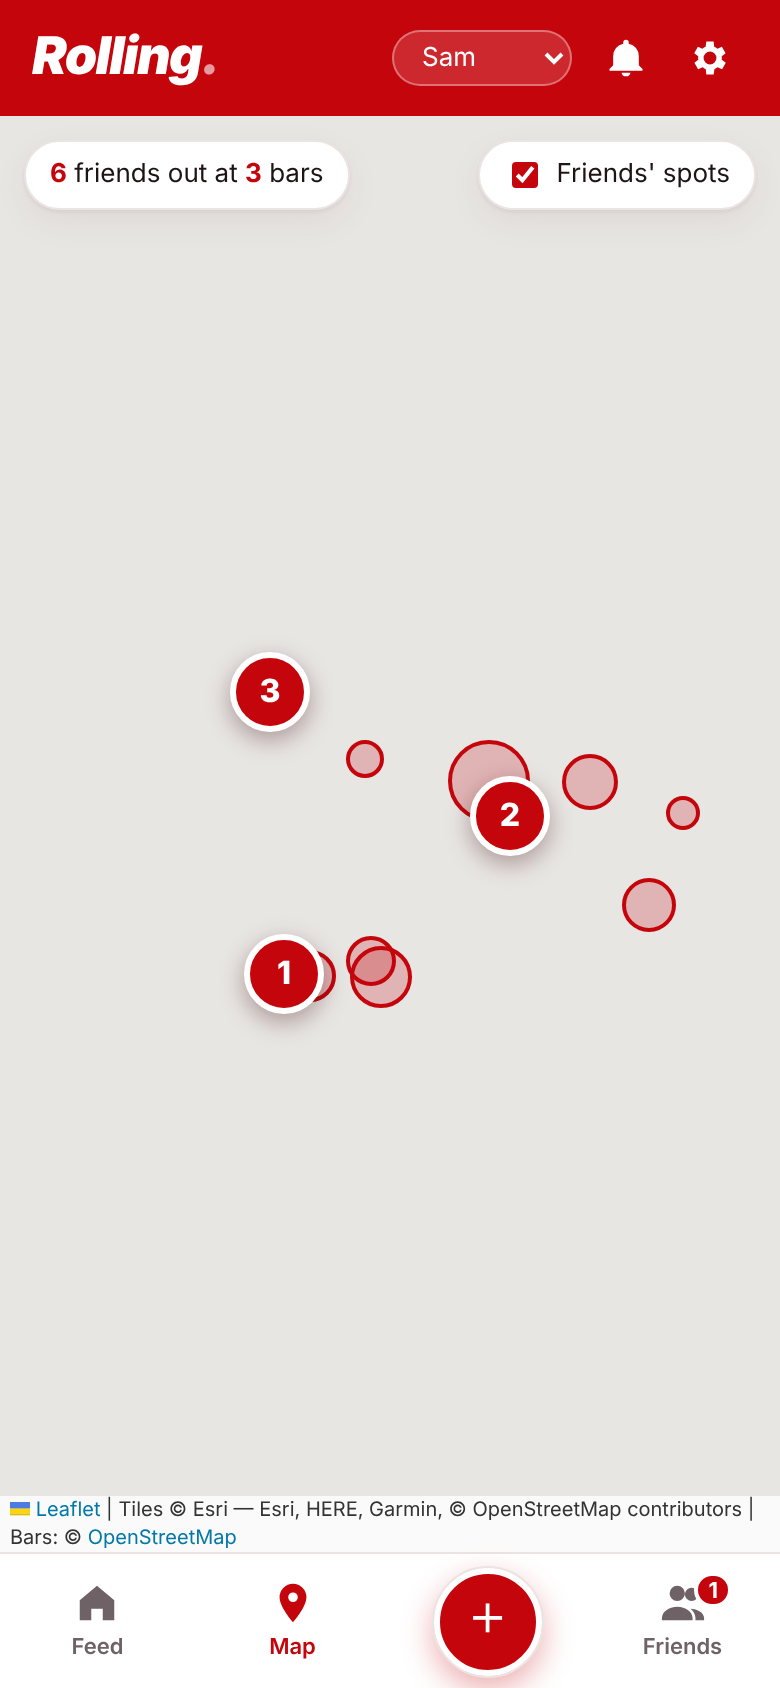
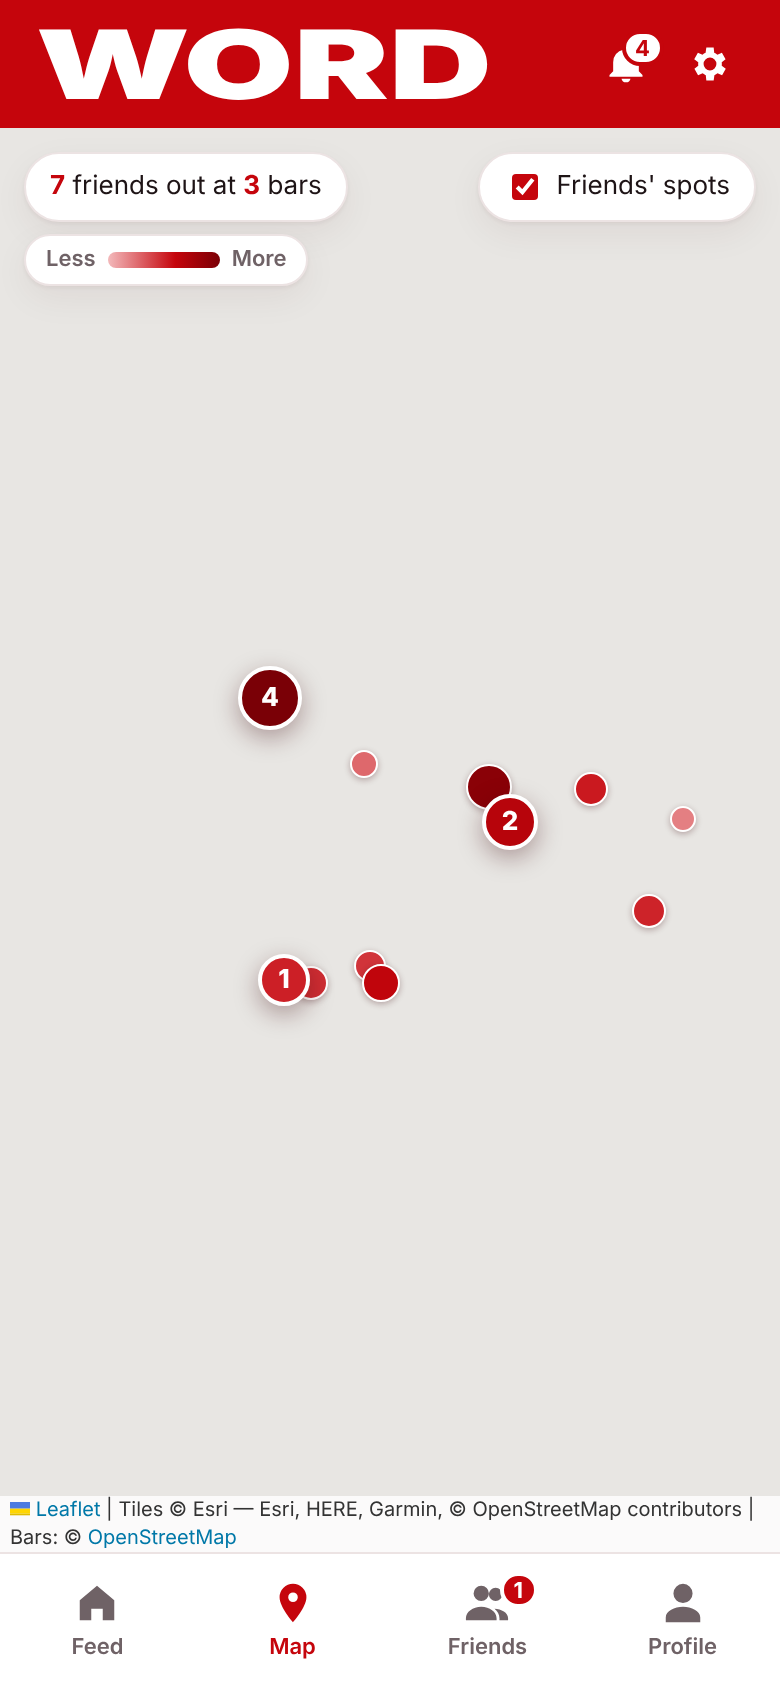
Map: show bar popularity with color and size
Friends' spots go from pale red (rarely) through Badger red to deep red
(most popular), with radius only 5 to 12px. Tonight's count pins use the
same scale by friends going, 24 to 32px. Adds a Less/More color key under
the friends-out pill.

Claude-Session: https://claude.ai/code/session_01LsgwHYcrkn2rvmvnVgPXbN

diff --git a/app.js b/app.js
@@ -415,6 +415,14 @@
     return by;
   }
 
+  // Map color scale, 0 to 1: pale red, then Badger red, then deep red.
+  const HEAT = [[243, 185, 187], [197, 5, 12], [122, 0, 6]];
+  function heat(t) {
+    t = Math.max(0, Math.min(1, t));
+    const [a, b, k] = t < 0.6 ? [HEAT[0], HEAT[1], t / 0.6] : [HEAT[1], HEAT[2], (t - 0.6) / 0.4];
+    return `rgb(${a.map((v, i) => Math.round(v + (b[i] - v) * k)).join(",")})`;
+  }
+
   function renderMap() {
     initMap();
     barLayer.clearLayers();
@@ -423,26 +431,30 @@
     const mine = myPost();
 
     // Friends' spots: every bar your friends have been to before. The more
-    // (and more recently) they go, the bigger the dot. Bars they've never
-    // picked aren't shown at all.
+    // (and more recently) they go, the deeper the red and the slightly bigger
+    // the dot (Sam, 2026-11-18: color does most of the work so no dot gets
+    // huge). Bars they've never picked aren't shown at all.
     if (showSpots) {
       const { score } = friendSpots();
       const max = Math.max(1, ...Object.values(score));
       for (const [barId, sc] of Object.entries(score)) {
         if (by[barId]) continue;
-        const b = BAR_BY_ID[barId];
-        const d = Math.round(10 + 34 * (sc / max));
-        L.marker([b.lat, b.lon], { icon: L.divIcon({ className: "", html: `<div class="spot" style="width:${d}px;height:${d}px"></div>`, iconSize: [d, d], iconAnchor: [d / 2, d / 2] }), zIndexOffset: d })
+        const b = BAR_BY_ID[barId], t = sc / max;
+        const d = Math.round(10 + 14 * t); // 5 to 12px radius
+        L.marker([b.lat, b.lon], { icon: L.divIcon({ className: "", html: `<div class="spot" style="width:${d}px;height:${d}px;background:${heat(t)}"></div>`, iconSize: [d, d], iconAnchor: [d / 2, d / 2] }), zIndexOffset: d })
           .on("click", () => openBar(barId)).addTo(barLayer);
       }
     }
+    // Tonight: same color scale, by how many friends are going.
+    const maxHere = Math.max(1, ...Object.values(by).map((ps) => ps.filter((p) => p.userId !== state.me).length));
     for (const [barId, posts] of Object.entries(by)) {
       const b = BAR_BY_ID[barId];
       const isMine = mine && mine.barId === barId;
       const friendsHere = posts.filter((p) => p.userId !== state.me).length;
       const label = friendsHere ? friendsHere : "You";
+      const t = friendsHere / maxHere, d = friendsHere ? Math.round(24 + 8 * t) : 30;
       L.marker([b.lat, b.lon], {
-        icon: L.divIcon({ className: "", html: `<div class="count-marker ${isMine ? "me" : ""} ${friendsHere ? "" : "only-me"}">${label}</div>`, iconSize: [40, 40], iconAnchor: [20, 20] }),
+        icon: L.divIcon({ className: "", html: `<div class="count-marker ${isMine ? "me" : ""} ${friendsHere ? "" : "only-me"}" style="width:${d}px;height:${d}px;${friendsHere ? `background:${heat(0.35 + 0.65 * t)}` : ""}">${label}</div>`, iconSize: [d, d], iconAnchor: [d / 2, d / 2] }),
         zIndexOffset: 1000 + friendsHere,
       }).on("click", () => openBar(barId)).addTo(countLayer);
     }
@@ -458,7 +470,10 @@
     const totalFriends = visiblePosts().filter((p) => p.userId !== state.me).length;
     const barsCount = Object.keys(by).filter((id) => by[id].some((p) => p.userId !== state.me)).length;
     $("#mapLegend").innerHTML = `
-      <div class="pill"><b>${totalFriends}</b> friend${totalFriends === 1 ? "" : "s"} out at <b>${barsCount}</b> bar${barsCount === 1 ? "" : "s"}</div>
+      <div class="legend-left">
+        <div class="pill"><b>${totalFriends}</b> friend${totalFriends === 1 ? "" : "s"} out at <b>${barsCount}</b> bar${barsCount === 1 ? "" : "s"}</div>
+        <div class="heat-key">Less <span class="ramp"></span> More</div>
+      </div>
       <label class="pill toggle"><input type="checkbox" id="allBars" ${showSpots ? "checked" : ""}/> Friends' spots</label>`;
     $("#allBars").onchange = (e) => { showSpots = e.target.checked; renderMap(); };
   }

diff --git a/styles.css b/styles.css
@@ -172,14 +172,14 @@ textarea.comment:focus { border-color: var(--red); }
 .sheet-actions .btn { flex: 1; padding: 13px; }
 
 /* Map */
-.count-marker { width: 40px; height: 40px; border-radius: 50%; display: grid; place-items: center;
-  background: var(--red); color: var(--white); font-family: var(--display); font-weight: 800; font-size: 16px;
-  border: 3px solid var(--white); box-shadow: 0 4px 12px rgba(60,10,12,.35); }
+.count-marker { width: 30px; height: 30px; border-radius: 50%; display: grid; place-items: center;
+  background: var(--red); color: var(--white); font-family: var(--display); font-weight: 800; font-size: 13px;
+  border: 2.5px solid var(--white); box-sizing: border-box; box-shadow: 0 4px 12px rgba(60,10,12,.35); }
 .count-marker.me { box-shadow: 0 0 0 3px var(--red), 0 4px 12px rgba(60,10,12,.35); }
-.count-marker.only-me { background: var(--white); color: var(--red); border-color: var(--red); font-size: 11px; }
+.count-marker.only-me { background: var(--white); color: var(--red); border-color: var(--red); font-size: 9px; }
 .bar-dot { width: 12px; height: 12px; border-radius: 50%; background: var(--white); border: 3px solid var(--red); opacity: .8; }
 .map-legend { position: absolute; top: 12px; left: 12px; right: 12px; z-index: 450; display: flex;
-  justify-content: space-between; align-items: center; gap: 8px; pointer-events: none; }
+  justify-content: space-between; align-items: flex-start; gap: 8px; pointer-events: none; }
 .map-legend > * { pointer-events: auto; }
 .pill { background: var(--bg); border: 1px solid var(--line); border-radius: 999px; padding: 7px 12px; font-size: 13px;
   box-shadow: var(--shadow); }
@@ -280,8 +280,12 @@ textarea.comment:focus { border-color: var(--red); }
 .reply-compose-row { display: flex; justify-content: space-between; align-items: center; margin-top: 6px; }
 .btn:disabled { opacity: .45; cursor: not-allowed; }
 
-/* Friends' spots on the map: size = how often your friends go */
-.spot { border-radius: 50%; background: rgba(197, 5, 12, .22); border: 2px solid var(--red); box-sizing: border-box; }
+/* Friends' spots on the map: color (pale to deep red) and a little size = how often your friends go */
+.spot { border-radius: 50%; border: 1.5px solid var(--white); box-sizing: border-box; box-shadow: 0 1px 3px rgba(60,10,12,.3); }
+.legend-left { display: flex; flex-direction: column; align-items: flex-start; gap: 6px; }
+.heat-key { display: flex; align-items: center; gap: 6px; font-size: 11px; font-weight: 600; color: var(--muted);
+  background: var(--bg); border: 1px solid var(--line); border-radius: 999px; padding: 4px 10px; box-shadow: var(--shadow); }
+.heat-key .ramp { width: 56px; height: 8px; border-radius: 4px; background: linear-gradient(90deg, rgb(243,185,187), var(--red) 60%, rgb(122,0,6)); }
 .spot-note { font-size: 13px; color: var(--red); font-weight: 600; margin: -8px 0 4px; }
 #friendsBody > h2:first-child { margin-top: 18px; }
 

diff --git a/README.md b/README.md
@@ -19,7 +19,7 @@ Everything is saved in your browser (localStorage). There's no sign-in yet, so u
 | Tab | What it does |
 | --- | --- |
 | Feed | Your post for tonight (tap "Post where I'm headed" at the top: pick a bar, most popular first, then arrival time, an optional comment up to 100 words, and the excitement meter; posting again replaces it), friends' posts (bar, excitement, arrival time, comment), and who hasn't posted yet. Tap a post to open its replies and reply (up to 100 words) |
-| Map | Bars where friends are going, with a count on each pin. Tap a pin to see who's going, when they'll get there, and the group's excitement. "Friends' spots" shows every bar your friends have been to before, bigger dots for the ones they go to most. Bars your friends never go to aren't shown |
+| Map | Bars where friends are going, with a count on each pin. Tap a pin to see who's going, when they'll get there, and the group's excitement. "Friends' spots" shows every bar your friends have been to before, pale red for places they rarely go up to deep red for their favorites (dots only grow a little). Bars your friends never go to aren't shown |
 | Friends | One search across your friends, requests and everyone else (friends first). Send, accept or decline friend requests; star favorites; remove friends. Feed and map only show friends |
 | Profile | Your name and @handle, nights out, bars and switches, your top 3 usual spots, and Edit profile. No profile pictures anywhere in the app |
 | 🔔 / ⚙ | Notification inbox and Settings (top right). Choose what you hear about: favorites posting, any friend posting, a bar hitting N+ friends, a friend picking your bar, a friend switching bars, a friend maxing out excitement, friend requests, and a nightly reminder to post. Optional browser notifications while the site is open |
